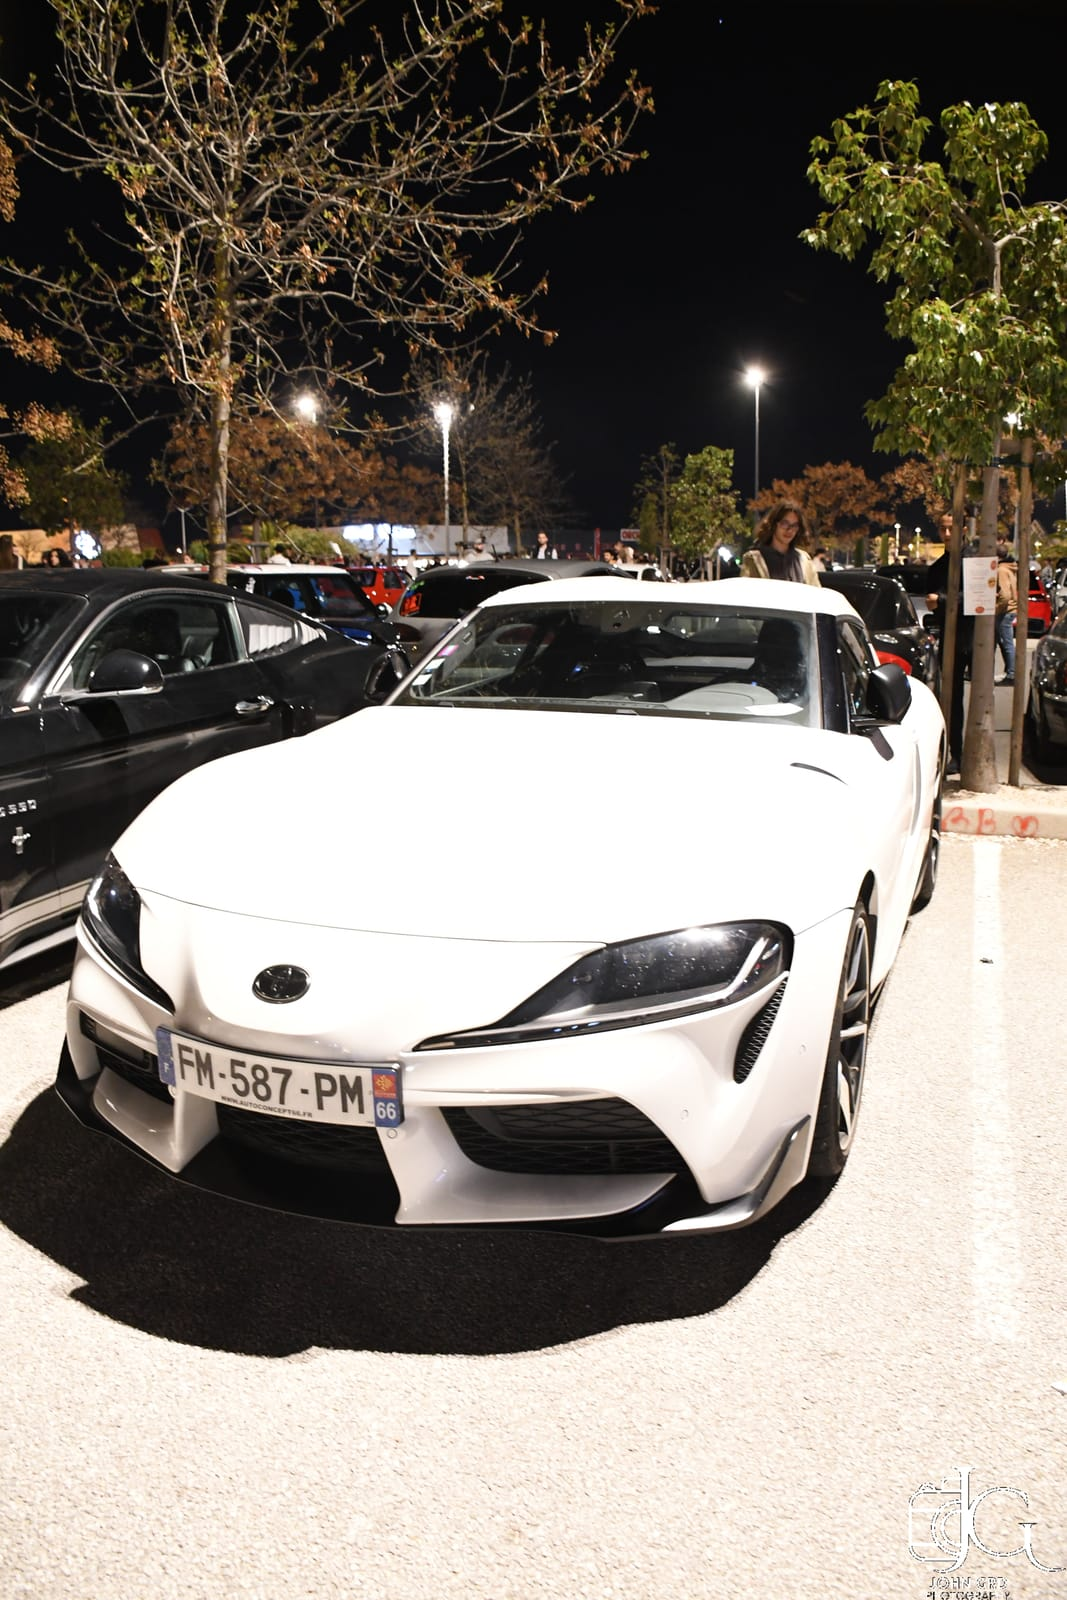
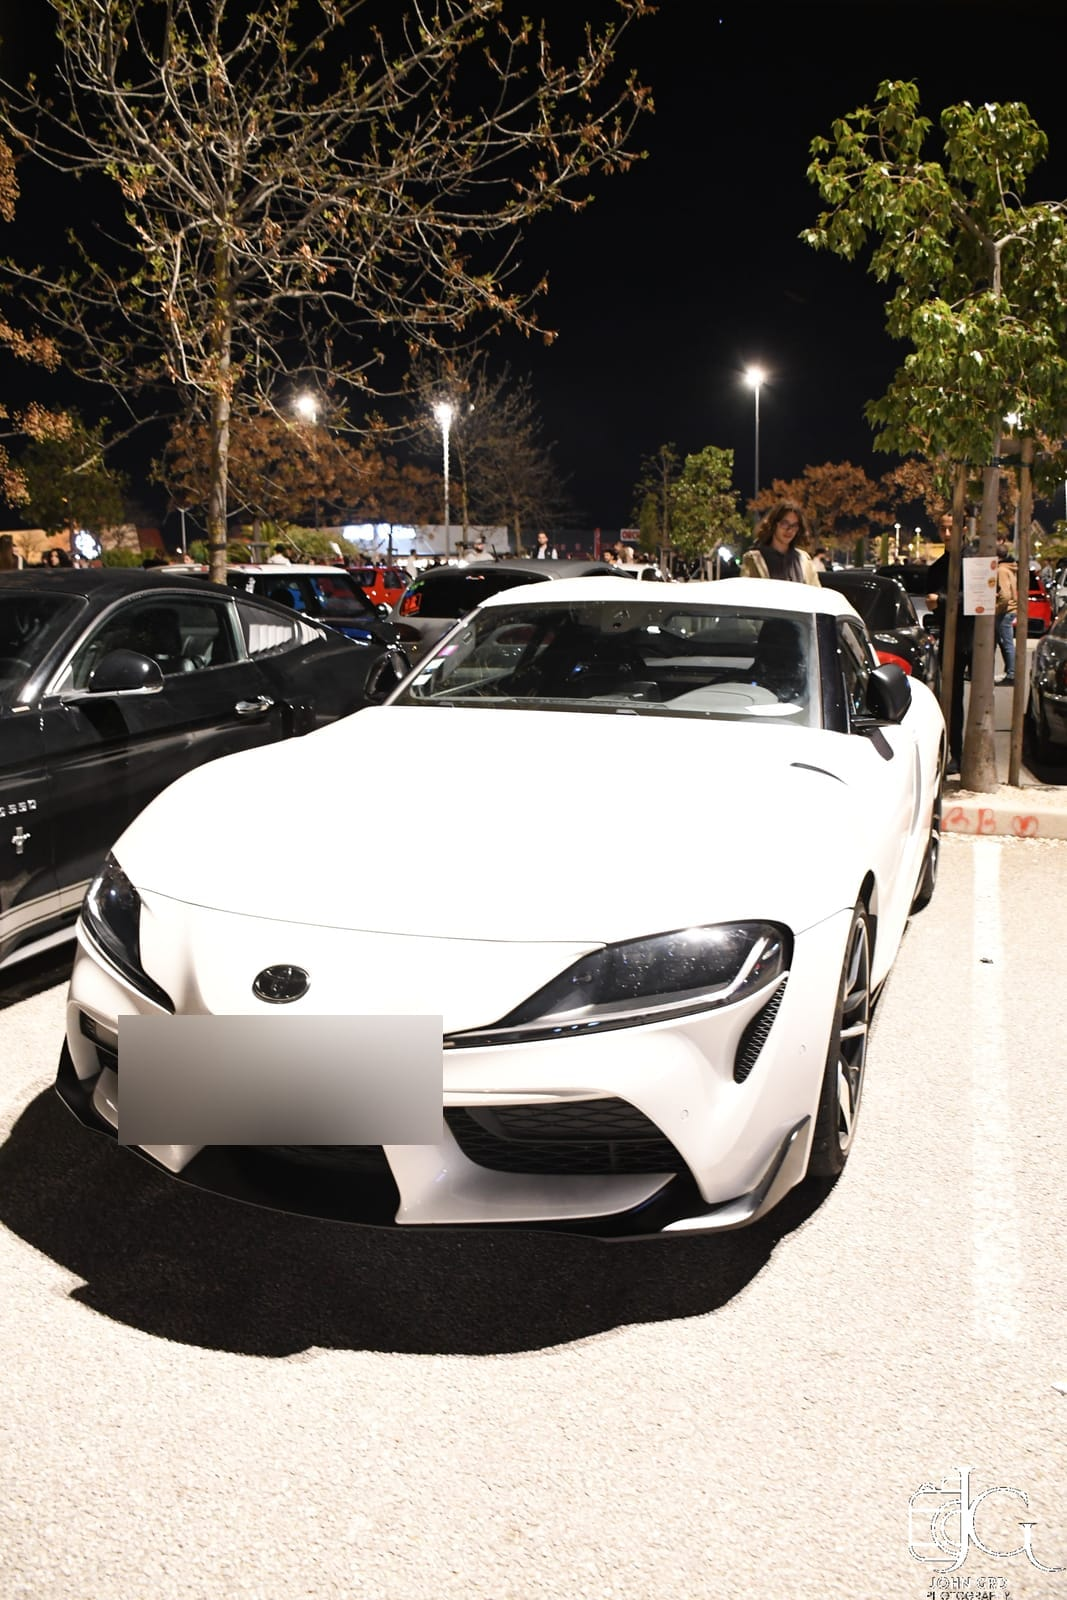
Seed : plaques d'immatriculation floutées sur les photos de démonstration (lot C6)

Changed region(s): [[0.0928, 0.625, 0.433, 0.7188]]

diff --git a/docs/JOURNAL-DES-CHOIX.md b/docs/JOURNAL-DES-CHOIX.md
@@ -1978,8 +1978,8 @@ Référence : l'artefact DA v2 (D33) ; décisions de Damien D34. Branche `lot-c5
 
 ## Lot C6 — ressources réelles (photos, logo MéditeSportCar, icône) — 22/10/2026
 
-- **Sélection.** 24 photos de JohnGRD Photographie sur 121 (usage autorisé par Damien), choisies sur planches contact : 4 scènes de rassemblement (`event-`), 14 voitures entières (`car-`), 3 motos (`moto-`), 2 détails de pare-brise MéditeSportCar (`detail-`). Recompressées en JPEG (côté long 1600 px, qualité 80, sans EXIF) dans `apps/api/scripts/seed/assets/photos/` (4,9 Mo) ; les 7 photos de l'artefact (C5) sont retirées, remplacées. Les originaux ne sont pas versionnés. Des plaques d'immatriculation restent lisibles sur certaines photos (images publiques du photographe, données de démonstration) ; à flouter avant toute reprise hors démonstration.
+- **Sélection.** 23 photos de JohnGRD Photographie sur 121 (usage autorisé par Damien), choisies sur planches contact : 4 scènes de rassemblement (`event-`), 14 voitures entières (`car-`), 3 motos (`moto-`), 2 détails de pare-brise MéditeSportCar (`detail-`). Recompressées en JPEG (côté long 1600 px, qualité 80, sans EXIF) dans `apps/api/scripts/seed/assets/photos/` (4,9 Mo) ; les 7 photos de l'artefact (C5) sont retirées, remplacées. Les originaux ne sont pas versionnés. Les plaques d'immatriculation lisibles (17 photos, 25 zones, y compris des plaques partielles ou lointaines) ont été floutées au flou gaussien fort (marge de 15 %), à la demande de Damien, puis revérifiées à l'œil.
 - **Seed.** Affiches d'événements : `event-` et `car-` à tour de rôle (la Nocturne de Canet comprise) ; garage des comptes de démonstration : photos réelles (voitures ou motos selon le type) à la place du dégradé factice (`putRealPhoto` dans `photos.ts`) ; galeries des fiches pros : photos réelles ; une galerie « Béziers Night en images » (4 photos) pour le média Sud Cars. Les logos des clubs, pros et prestataires, et les photos du food truck restent factices : pas de ressource réelle fournie. `photos-seed/` (photos de Damien) reste prioritaire pour les affiches. `db:seed --reset` puis `db:seed` verts.
 - **Logo.** `logo-msc.png` remplacé par le logo blanc réel (`FRONT V2_WHITE_300dpi.png`), rogné, 512 px, transparent : il se pose sur le fond sombre de la pastille.
 - **Icône et démarrage de l'appli : rien à corriger.** `apps/mobile/assets/icon.png` (icône et premier plan adaptatif, fond `#17191C`) = `identite/favicon/icon-maskable-512.png` (même empreinte) ; `favicon.png` = `favicon-48.png` du kit ; `splash.png` = monogramme du kit sur `#17191C`. Favicon, apple-touch-icon, icônes PWA et `og-image` du site : identiques au kit (empreintes égales). Non ajouté : icône monochrome Android (thème d'icônes) ; le kit n'en fournit pas.
-- **Source non utilisée.** Le dossier `E:\Users\DELL\Documents\media medite\` (photos d'événements MéditeSportCar) n'a pas pu être lu : l'accès a été refusé par le système de permissions. À faire quand l'accès sera accordé : galeries d'éditions passées.
+- **Source E: abandonnée.** Damien ne veut pas les photos de « media medite » ; rien n'en est utilisé.

diff --git a/apps/api/scripts/seed/assets/LISEZ-MOI.md b/apps/api/scripts/seed/assets/LISEZ-MOI.md
@@ -1,8 +1,8 @@
 # Assets du seed
 
 - `logo-msc.png` : logo réel de MéditeSportCar (blanc, fond transparent, rogné, 512 px), fourni par Damien (lot C6). Il se pose sur le fond sombre de la fiche organisateur.
-- `photos/*.jpg` : 24 photos réelles de JohnGRD Photographie (photographe de Damien, usage autorisé par lui), choisies parmi 121,
-  recompressées (côté long 1600 px, JPEG qualité 80, sans EXIF). Préfixes : `event-` (scènes de rassemblement), `car-` (voitures),
+- `photos/*.jpg` : 23 photos réelles de JohnGRD Photographie (photographe de Damien, usage autorisé par lui), choisies parmi 121,
+  recompressées (côté long 1600 px, JPEG qualité 80, sans EXIF), **plaques d'immatriculation floutées** (flou gaussien fort sur chaque plaque lisible, avant ou arrière, marge de 15 %). Préfixes : `event-` (scènes de rassemblement), `car-` (voitures),
   `moto-`, `detail-` (pare-brise MéditeSportCar). Les originaux ne sont pas versionnés.
   Usage : affiches d'événements (`event-`, `car-`), garage des comptes de démonstration (`car-`, `moto-`), galeries (pros, média).
 
